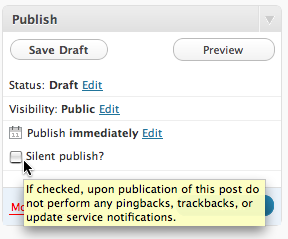
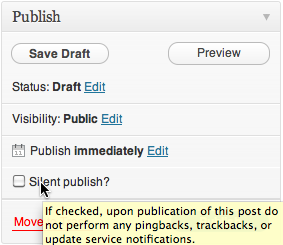
Release v2.2.1:
* Add `version()` to return plugin's version
* Update readme with example and documentation for new filter
* Note compatibility through WP 3.3+
* Update screenshots for WP 3.3
* Use `DIRECTORY_SEPARATOR` instead of hardcoded '/'
* Create 'lang' subdirectory and move .pot file into it
* Add 'Domain Path' directive to top of main plugin file
* Add link to plugin directory page to readme.txt
* Update copyright date (2012)

diff --git a/silent-publish.php b/silent-publish.php
@@ -2,30 +2,27 @@
 /**
  * @package Silent_Publish
  * @author Scott Reilly
- * @version 2.2
+ * @version 2.2.1
  */
 /*
 Plugin Name: Silent Publish
-Version: 2.2
+Version: 2.2.1
 Plugin URI: http://coffee2code.com/wp-plugins/silent-publish/
 Author: Scott Reilly
 Author URI: http://coffee2code.com
 Text Domain: silent-publish
+Domain Path: /lang/
 Description: Adds the ability to publish a post without triggering pingbacks, trackbacks, or notifying update services.
 
-Compatible with WordPress 2.9+, 3.0+, 3.1+, 3.2+.
+Compatible with WordPress 2.9+, 3.0+, 3.1+, 3.2+, 3.3+
 
 =>> Read the accompanying readme.txt file for instructions and documentation.
 =>> Also, visit the plugin's homepage for additional information and updates.
 =>> Or visit: http://wordpress.org/extend/plugins/silent-publish/
-
-TODO:
-	* Update screenshots for WP 3.2
-	* Allow for silent publish to be enabled by default
 */
 
 /*
-Copyright (c) 2009-2011 by Scott Reilly (aka coffee2code)
+Copyright (c) 2009-2012 by Scott Reilly (aka coffee2code)
 
 Permission is hereby granted, free of charge, to any person obtaining a copy of this software and associated documentation
 files (the "Software"), to deal in the Software without restriction, including without limitation the rights to use, copy,
@@ -50,7 +47,16 @@ class c2c_SilentPublish {
 	private static $textdomain_subdir = 'lang';
 
 	/**
-	 * Constructor
+	 * Returns version of the plugin.
+	 *
+	 * @since 2.2.1
+	 */
+	public static function version() {
+		return '2.2.1';
+	}
+
+	/**
+	 * Initializer
 	 */
 	public static function init() {
 		add_action( 'init', array( __CLASS__, 'do_init' ) );
@@ -80,7 +86,7 @@ class c2c_SilentPublish {
 	 * @return void
 	 */
 	public static function load_textdomain() {
-		$subdir = empty( self::$textdomain_subdir ) ? '' : ( '/' . self::$textdomain_subdir );
+		$subdir = empty( self::$textdomain_subdir ) ? '' : ( DIRECTORY_SEPARATOR . self::$textdomain_subdir );
 		load_plugin_textdomain( self::$textdomain, false, basename( dirname( __FILE__ ) ) . $subdir );
 	}
 
